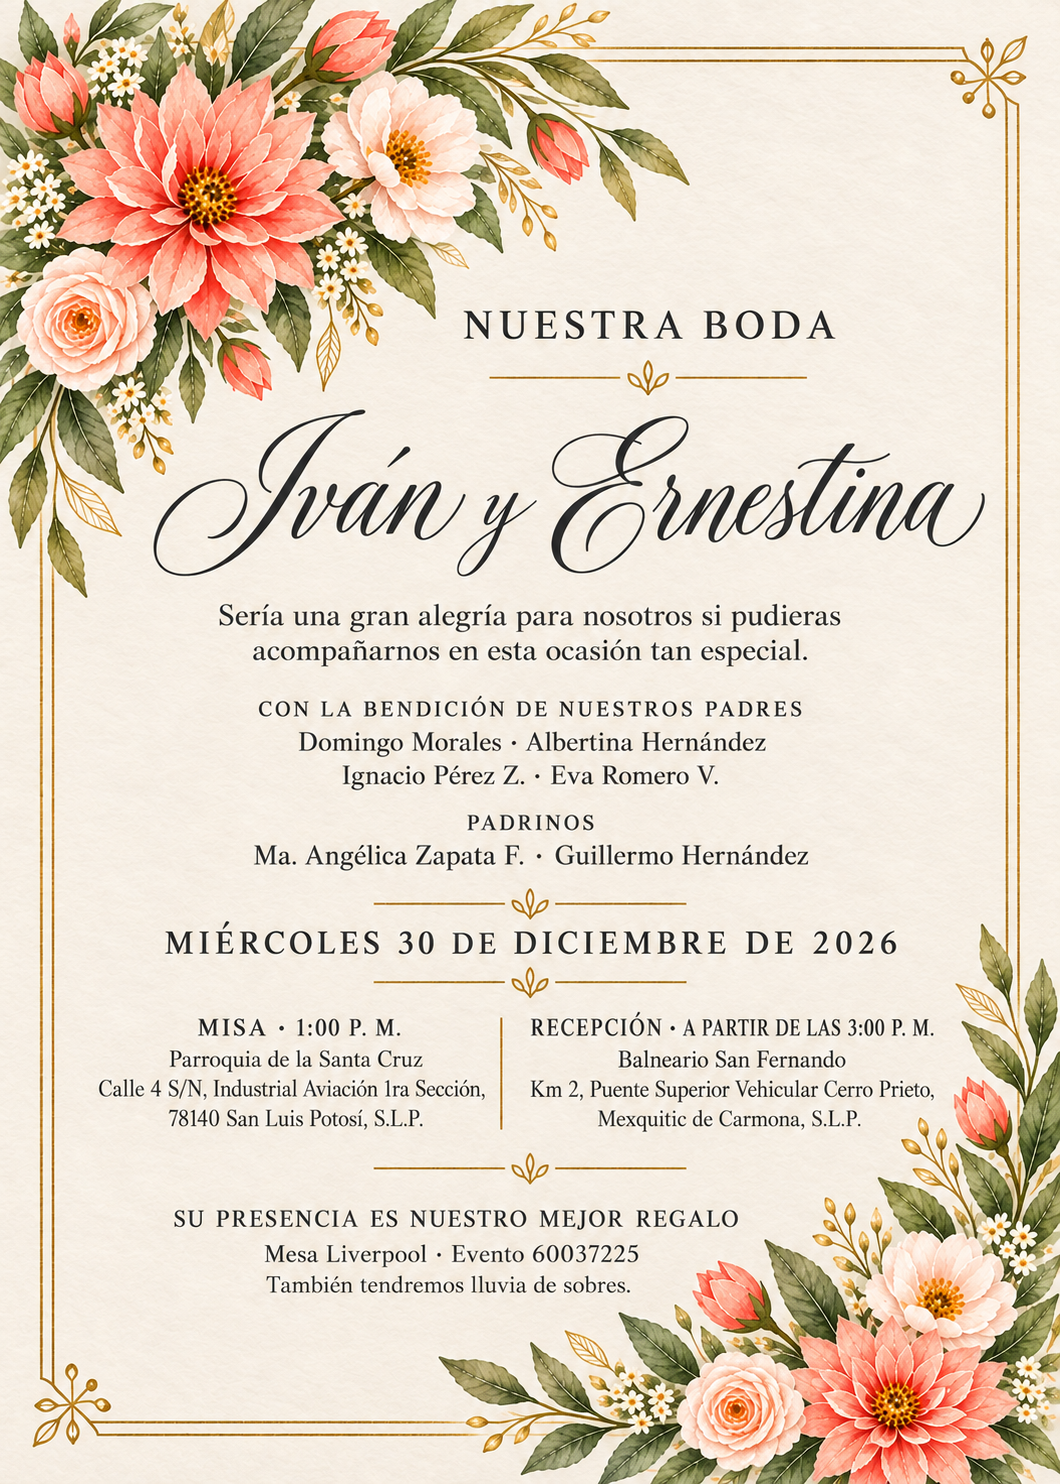
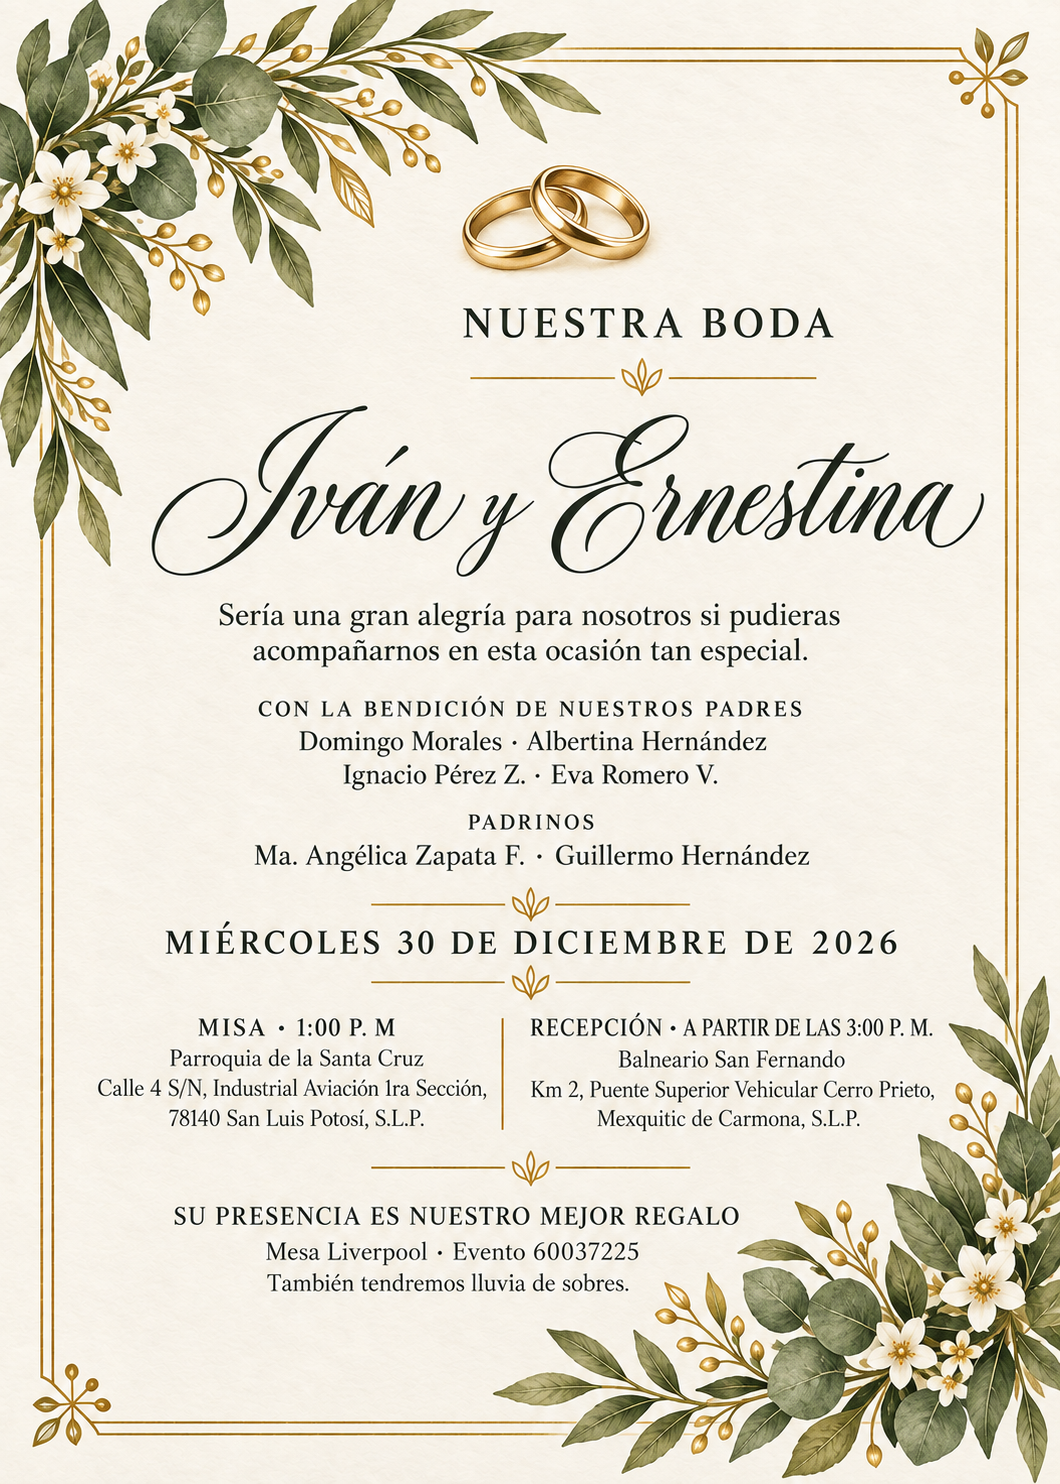
feat: rediseña invitacion imprimible de Ivan y Ernestina

diff --git a/components/sections/EventDetails.js b/components/sections/EventDetails.js
@@ -3,6 +3,7 @@
 import Image from "next/image";
 import { CalendarDays, Camera, Car, Clock, ExternalLink, GlassWater, Heart, MapPin, Music, Navigation, Sparkles, Trees, Umbrella, Users } from "lucide-react";
 import { Reveal, SectionHeading } from "@/components/ui";
+import { openGoogleCalendar } from "@/lib/calendar";
 
 export function LocationsSection({ wedding }) {
   return <section className="locations" id="detalles">{[wedding.ceremony, wedding.reception].filter((place) => place.enabled !== false).map((place, index) => <article className={`location ${index ? "location--reverse" : ""}`} key={place.label}>
@@ -40,11 +41,9 @@ export function HotelsSection({ wedding }) {
 }
 
 export function CalendarSection({ wedding, onToast }) {
-  const downloadIcs = () => {
-    const start = new Date(wedding.date); const end = new Date(start.getTime() + 8 * 3600000);
-    const format = (date) => date.toISOString().replace(/[-:]/g, "").replace(/\.\d{3}/, "");
-    const content = ["BEGIN:VCALENDAR", "VERSION:2.0", "BEGIN:VEVENT", `DTSTART:${format(start)}`, `DTEND:${format(end)}`, `SUMMARY:Boda de ${wedding.couple.bride} y ${wedding.couple.groom}`, `LOCATION:${wedding.ceremony.address}`, `DESCRIPTION:${wedding.heroQuote}`, "END:VEVENT", "END:VCALENDAR"].join("\r\n");
-    const url = URL.createObjectURL(new Blob([content], { type: "text/calendar" })); const link = document.createElement("a"); link.href = url; link.download = `boda-${wedding.couple.bride}-${wedding.couple.groom}.ics`.toLowerCase().replace(/[^a-z0-9.-]+/g, "-"); link.click(); URL.revokeObjectURL(url); onToast("Fecha guardada en tu calendario");
+  const addCalendar = () => {
+    openGoogleCalendar({ title: `Boda de ${wedding.couple.bride} y ${wedding.couple.groom}`, start: wedding.date, durationHours: 8, location: wedding.ceremony.address, details: wedding.heroQuote });
+    onToast("Abriendo Google Calendar");
   };
-  return <section className="calendar"><Reveal><CalendarDays strokeWidth={1} /><span className="eyebrow">Reserva la fecha</span><h2>{wedding.dateDisplay}</h2><p>No queremos celebrar este momento sin ti.</p><button className="button button--ivory" onClick={downloadIcs}>Agregar a mi calendario</button></Reveal></section>;
+  return <section className="calendar"><Reveal><CalendarDays strokeWidth={1} /><span className="eyebrow">Reserva la fecha</span><h2>{wedding.dateDisplay}</h2><p>No queremos celebrar este momento sin ti.</p><button className="button button--ivory" onClick={addCalendar}>Agregar a mi calendario</button></Reveal></section>;
 }

diff --git a/components/events/lesly-marcelino/LeslyMarcelinoInvitation.js b/components/events/lesly-marcelino/LeslyMarcelinoInvitation.js
@@ -5,6 +5,7 @@ import { CalendarDays, Check, ChevronDown, Heart, MapPin, Pause, Play, Share2, S
 import { useEffect, useRef, useState } from "react";
 import styles from "@/components/events/ivan-ernestina/IvanErnestinaInvitation.module.css";
 import localStyles from "./LeslyMarcelinoInvitation.module.css";
+import { openGoogleCalendar } from "@/lib/calendar";
 
 const floral = "/images/events/lesly-marcelino/floral.png";
 const envelopeClosed = "/images/events/lesly-marcelino/envelope-closed.png";
@@ -64,8 +65,7 @@ export function LeslyMarcelinoInvitation({ wedding }) {
     } catch (cause) { setError(cause.message); } finally { setSaving(false); }
   };
   const addCalendar = () => {
-    const content = ["BEGIN:VCALENDAR", "VERSION:2.0", "BEGIN:VEVENT", "DTSTART:20261228T010000Z", "DTEND:20261228T070000Z", "SUMMARY:Boda de Lesly y Marcelino", `LOCATION:${wedding.reception.address}`, `DESCRIPTION:${wedding.hero.quote}`, "END:VEVENT", "END:VCALENDAR"].join("\r\n");
-    const url = URL.createObjectURL(new Blob([content], { type: "text/calendar" })); const link = document.createElement("a"); link.href = url; link.download = "boda-lesly-y-marcelino.ics"; link.click(); URL.revokeObjectURL(url); notify("Fecha agregada a tu calendario");
+    openGoogleCalendar({ title: "Boda de Lesly y Marcelino", start: wedding.date, end: wedding.endDate, location: wedding.reception.address, details: wedding.hero.quote });
   };
   const share = async () => { const data = { title: "Boda de Lesly y Marcelino", text: wedding.hero.quote, url: window.location.href }; try { if (navigator.share) await navigator.share(data); else { await navigator.clipboard.writeText(data.url); notify("Enlace copiado"); } } catch (cause) { if (cause?.name !== "AbortError") notify("No fue posible compartir"); } };
 

diff --git a/components/events/roxana-50/Roxana50Invitation.js b/components/events/roxana-50/Roxana50Invitation.js
@@ -5,6 +5,7 @@ import { CalendarDays, Check, ChevronDown, ChevronLeft, ChevronRight, Gift, Hear
 import { useEffect, useRef, useState } from "react";
 import styles from "@/components/events/ivan-ernestina/IvanErnestinaInvitation.module.css";
 import localStyles from "./Roxana50Invitation.module.css";
+import { openGoogleCalendar } from "@/lib/calendar";
 
 const ornament = "/images/events/roxana-50/ornament.png";
 const envelopeClosed = "/images/events/roxana-50/envelope-closed.png";
@@ -76,8 +77,7 @@ export function Roxana50Invitation({ event }) {
     } catch (cause) { setError(cause.message); } finally { setSaving(false); }
   };
   const addCalendar = () => {
-    const content = ["BEGIN:VCALENDAR", "VERSION:2.0", "BEGIN:VEVENT", "DTSTART:20261115T000000Z", "DTEND:20261115T060000Z", "SUMMARY:50 años de Roxana", `LOCATION:${event.reception.name}, ${event.reception.address}`, `DESCRIPTION:${event.hero.quote}`, "END:VEVENT", "END:VCALENDAR"].join("\r\n");
-    const url = URL.createObjectURL(new Blob([content], { type: "text/calendar" })); const link = document.createElement("a"); link.href = url; link.download = "cumpleanos-roxana-50.ics"; link.click(); URL.revokeObjectURL(url); notify("Fecha agregada a tu calendario");
+    openGoogleCalendar({ title: "50 años de Roxana", start: event.date, end: event.endDate, location: `${event.reception.name}, ${event.reception.address}`, details: event.hero.quote });
   };
   const share = async () => { const data = { title: "Los 50 de Roxana", text: event.hero.quote, url: window.location.href }; try { if (navigator.share) await navigator.share(data); else { await navigator.clipboard.writeText(data.url); notify("Enlace copiado"); } } catch (cause) { if (cause?.name !== "AbortError") notify("No fue posible compartir"); } };
 

diff --git a/components/events/QuinceInvitation.js b/components/events/QuinceInvitation.js
@@ -4,6 +4,7 @@ import Image from "next/image";
 import { CalendarDays, Check, ChevronDown, Church, Crown, ExternalLink, Gift, Heart, MapPin, Music2, Pause, Play, Share2, Sparkles } from "lucide-react";
 import { useEffect, useRef, useState } from "react";
 import styles from "./QuinceInvitation.module.css";
+import { openGoogleCalendar } from "@/lib/calendar";
 
 const eventDate = "2027-06-12T18:00:00-06:00";
 const schedule = [
@@ -38,8 +39,7 @@ export function QuinceInvitation() {
   const toggleAudio = () => { if (!audioRef.current) return; if (playing) { audioRef.current.pause(); setPlaying(false); } else audioRef.current.play().then(() => setPlaying(true)).catch(() => {}); };
   const submit = (event) => { event.preventDefault(); const data = new FormData(event.currentTarget); setConfirmed(String(data.get("name") || "Invitado").split(" ")[0]); };
   const addCalendar = () => {
-    const content = ["BEGIN:VCALENDAR", "VERSION:2.0", "BEGIN:VEVENT", "DTSTART:20270613T000000Z", "DTEND:20270613T060000Z", "SUMMARY:XV años de Isabella", "LOCATION:Hacienda San Gabriel", "END:VEVENT", "END:VCALENDAR"].join("\r\n");
-    const url = URL.createObjectURL(new Blob([content], { type: "text/calendar" })); const anchor = document.createElement("a"); anchor.href = url; anchor.download = "xv-isabella.ics"; anchor.click(); URL.revokeObjectURL(url);
+    openGoogleCalendar({ title: "XV años de Isabella", start: eventDate, durationHours: 6, location: "Hacienda San Gabriel", details: "Acompáñame a celebrar mis XV años." });
   };
   const share = async () => { if (navigator.share) await navigator.share({ title: "Los XV de Isabella", text: "Acompáñame a celebrar mis XV años", url: window.location.href }); else await navigator.clipboard.writeText(window.location.href); };
 

diff --git a/components/events/ivan-ernestina/IvanErnestinaInvitation.js b/components/events/ivan-ernestina/IvanErnestinaInvitation.js
@@ -4,6 +4,7 @@ import Image from "next/image";
 import { CalendarDays, Check, ChevronDown, ChevronLeft, ChevronRight, Church, Copy, ExternalLink, Gift, Heart, MapPin, Pause, Play, Share2, Sparkles, X } from "lucide-react";
 import { useEffect, useRef, useState } from "react";
 import styles from "./IvanErnestinaInvitation.module.css";
+import { openGoogleCalendar } from "@/lib/calendar";
 
 function getCountdown(date) {
   const remaining = new Date(date).getTime() - Date.now();
@@ -93,8 +94,7 @@ export function IvanErnestinaInvitation({ wedding }) {
     } catch (cause) { setError(cause.message); } finally { setSaving(false); }
   };
   const addCalendar = () => {
-    const content = ["BEGIN:VCALENDAR", "VERSION:2.0", "BEGIN:VEVENT", "DTSTART:20261230T190000Z", "DTEND:20261231T050000Z", "SUMMARY:Boda de Iván y Ernestina", `LOCATION:${wedding.ceremony.address}`, `DESCRIPTION:${wedding.hero.quote}`, "END:VEVENT", "END:VCALENDAR"].join("\r\n");
-    const url = URL.createObjectURL(new Blob([content], { type: "text/calendar" })); const link = document.createElement("a"); link.href = url; link.download = "boda-ivan-y-ernestina.ics"; link.click(); URL.revokeObjectURL(url); notify("Fecha agregada a tu calendario");
+    openGoogleCalendar({ title: "Boda de Iván y Ernestina", start: wedding.date, durationHours: 10, location: wedding.ceremony.address, details: wedding.hero.quote });
   };
   const share = async () => { const data = { title: "Boda de Iván y Ernestina", text: wedding.hero.quote, url: window.location.href }; try { if (navigator.share) await navigator.share(data); else { await navigator.clipboard.writeText(data.url); notify("Enlace copiado"); } } catch (cause) { if (cause?.name !== "AbortError") notify("No fue posible compartir"); } };
 

diff --git a/components/events/andrea-anahis/AndreaAnahisInvitation.js b/components/events/andrea-anahis/AndreaAnahisInvitation.js
@@ -5,6 +5,7 @@ import { Baby, CalendarDays, Check, ChevronDown, Church, Crown, ExternalLink, Gi
 import { useEffect, useRef, useState } from "react";
 import styles from "@/components/events/ivan-ernestina/IvanErnestinaInvitation.module.css";
 import localStyles from "./AndreaAnahisInvitation.module.css";
+import { openGoogleCalendar } from "@/lib/calendar";
 
 const floral = "/images/events/andrea-anahis/floral.png";
 const envelopeClosed = "/images/events/andrea-anahis/envelope-closed.png";
@@ -62,8 +63,7 @@ export function AndreaAnahisInvitation({ event }) {
     } catch (cause) { setError(cause.message); } finally { setSaving(false); }
   };
   const addCalendar = () => {
-    const content = ["BEGIN:VCALENDAR", "VERSION:2.0", "BEGIN:VEVENT", "DTSTART:20261115T000000Z", "DTEND:20261115T055900Z", "SUMMARY:XV años de Andrea Anahis", `LOCATION:${event.ceremony.address}`, `DESCRIPTION:${event.hero.quote}`, "END:VEVENT", "END:VCALENDAR"].join("\r\n");
-    const url = URL.createObjectURL(new Blob([content], { type: "text/calendar" })); const link = document.createElement("a"); link.href = url; link.download = "xv-andrea-anahis.ics"; link.click(); URL.revokeObjectURL(url); notify("Fecha agregada a tu calendario");
+    openGoogleCalendar({ title: "XV años de Andrea Anahis", start: event.date, durationHours: 6, location: event.ceremony.address, details: event.hero.quote });
   };
   const share = async () => { const data = { title: "XV años de Andrea Anahis", text: event.hero.quote, url: window.location.href }; try { if (navigator.share) await navigator.share(data); else { await navigator.clipboard.writeText(data.url); notify("Enlace copiado"); } } catch (cause) { if (cause?.name !== "AbortError") notify("No fue posible compartir"); } };
 

diff --git a/components/events/sara-blase/SaraBlaseInvitation.js b/components/events/sara-blase/SaraBlaseInvitation.js
@@ -5,6 +5,7 @@ import { CalendarDays, Check, ChevronDown, ChevronLeft, ChevronRight, Church, Ex
 import { useEffect, useRef, useState } from "react";
 import styles from "@/components/events/ivan-ernestina/IvanErnestinaInvitation.module.css";
 import localStyles from "./SaraBlaseInvitation.module.css";
+import { openGoogleCalendar } from "@/lib/calendar";
 
 const floral = "/images/events/sara-y-blase/floral.png";
 const envelopeClosed = "/images/events/sara-y-blase/envelope-closed.png";
@@ -103,9 +104,7 @@ export function SaraBlaseInvitation({ wedding }) {
     } catch (cause) { setError(cause.message); } finally { setSaving(false); }
   };
   const addCalendar = () => {
-    const content = ["BEGIN:VCALENDAR", "VERSION:2.0", "BEGIN:VEVENT", "DTSTART:20261107T220000Z", "DTEND:20261108T060000Z", "SUMMARY:Boda de Sara y Blase", `LOCATION:${wedding.ceremony.name}`, `DESCRIPTION:${wedding.hero.quote}`, "END:VEVENT", "END:VCALENDAR"].join("\r\n");
-    const url = URL.createObjectURL(new Blob([content], { type: "text/calendar" }));
-    const link = document.createElement("a"); link.href = url; link.download = "boda-sara-y-blase.ics"; link.click(); URL.revokeObjectURL(url); notify("Fecha agregada a tu calendario");
+    openGoogleCalendar({ title: "Boda de Sara y Blase", start: wedding.date, end: wedding.endDate, location: wedding.ceremony.name, details: wedding.hero.quote });
   };
   const share = async () => {
     const data = { title: "Boda de Sara y Blase", text: wedding.hero.quote, url: window.location.href };

diff --git a/lib/calendar.js b/lib/calendar.js
@@ -1,0 +1,18 @@
+function formatGoogleDate(value) {
+  return new Date(value).toISOString().replace(/[-:]/g, "").replace(/\.\d{3}/, "");
+}
+
+export function openGoogleCalendar({ title, start, end, durationHours = 6, location = "", details = "" }) {
+  const startDate = new Date(start);
+  const endDate = end ? new Date(end) : new Date(startDate.getTime() + durationHours * 60 * 60 * 1000);
+  const params = new URLSearchParams({
+    action: "TEMPLATE",
+    text: title,
+    dates: `${formatGoogleDate(startDate)}/${formatGoogleDate(endDate)}`,
+    details,
+    location,
+  });
+  const calendarWindow = window.open(`https://calendar.google.com/calendar/render?${params.toString()}`, "_blank");
+  if (calendarWindow) calendarWindow.opener = null;
+  else window.location.assign(`https://calendar.google.com/calendar/render?${params.toString()}`);
+}
